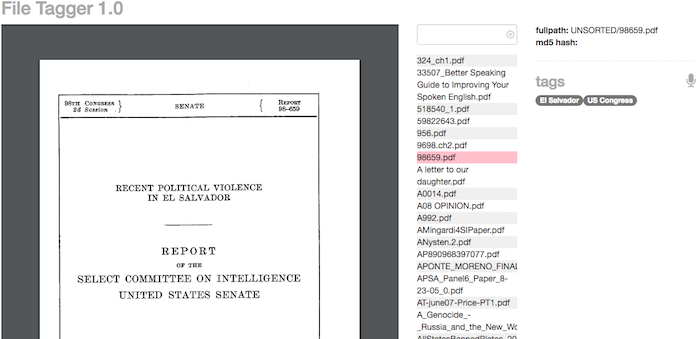
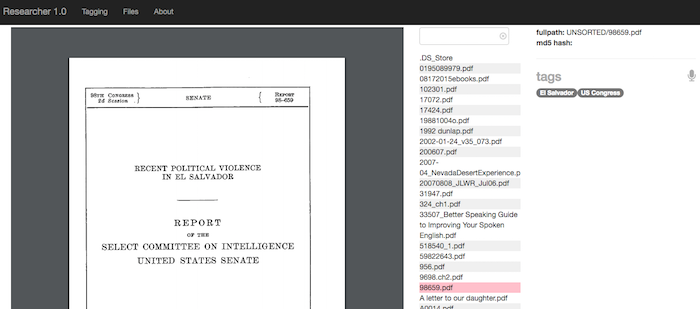
update README

diff --git a/README.md b/README.md
@@ -1,5 +1,5 @@
-File Tagging with Voice Recognition
-===================================
+REASEARCHER 1.0: File Tagging with Voice Recognition
+===================================================
 
 Requires: NodeJS, MongoDB. Tested in Chrome.
 
